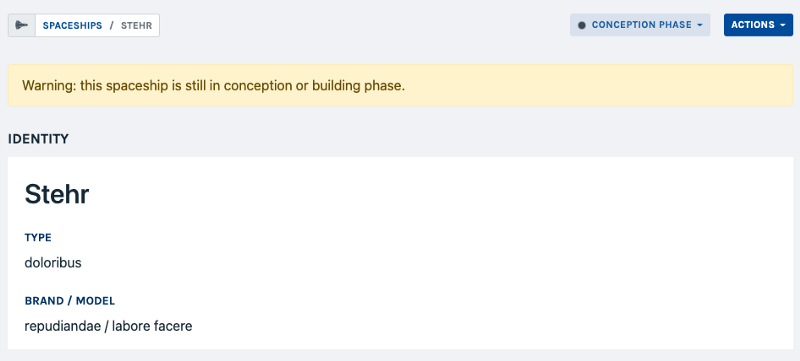
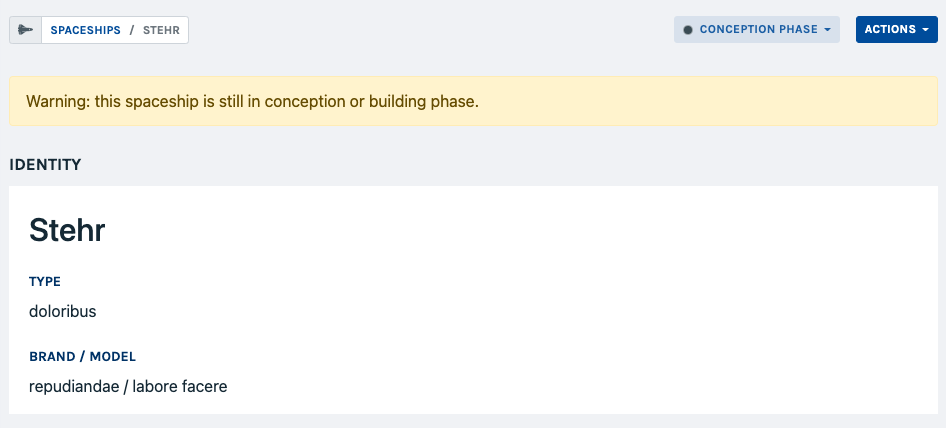
Add nav in blog + post pages, increase some images resolution

diff --git a/source/_assets/sass/main.scss b/source/_assets/sass/main.scss
@@ -14,6 +14,7 @@
 @import "components/carousel";
 @import "components/sticky-title";
 @import "components/section";
+@import "components/nav";
 
 @import "page/project";
 @import "page/home";
@@ -35,6 +36,7 @@ body {
   --body-color: #22292f;
   --logo-bg-color: #22292f;
   --logo-color: #EBEBEB;
+  --nav-link-color: #2C7467;
 }
 
 

diff --git a/source/_assets/sass/_root.scss b/source/_assets/sass/_root.scss
@@ -2,6 +2,7 @@
 :root {
   --image-size: 100%;
   --content-max-width: 100%;
+
   @screen md {
     --image-size: 30rem;
     --content-margin-left: 12rem;

diff --git a/source/_assets/sass/components/_nav.scss b/source/_assets/sass/components/_nav.scss
@@ -1,0 +1,6 @@
+
+.nav {
+  a {
+    color: var(--nav-link-color, #61FFE3);
+  }
+}

diff --git a/source/_layouts/app.blade.php b/source/_layouts/app.blade.php
@@ -10,25 +10,10 @@
         <link rel="stylesheet" href="{{ mix('css/main.css', 'assets/build') }}">
 
         <script src="https://cdn.usefathom.com/script.js" data-site="UYEFQCWU" defer></script>
-
-        {{ $head }}
     </head>
     <body {{ $attributes->class(['home' => $home]) }}>
 
-        @if($home)
-            <div class="container absolute pr-3">
-                <div class="flex justify-end gap-6">
-                    <div>
-                        <a href="/blog" class="underline">blog</a>
-                    </div>
-                    <div>
-                        <a href="/" class="{{ $lang == "fr" ? "text-white" : "underline" }}">fr</a>
-                        <span class="text-white">|</span>
-                        <a href="/en" class="{{ $lang == "en" ? "text-white" : "underline" }}">en</a>
-                    </div>
-                </div>
-            </div>
-        @endif
+        {{ $nav }}
 
         <div class="p-8 sm:p-16">
             <div id="app" class="container">

diff --git a/source/_components/nav.blade.php b/source/_components/nav.blade.php
@@ -1,0 +1,30 @@
+@props([
+    'home' => false,
+    'blog' => false,
+    'lang' => 'fr',
+])
+
+<div class="nav container absolute pr-3">
+    <div class="flex justify-end gap-6">
+        <div>
+            <a href="/blog" @class([$blog ? '!text-white' : 'underline'])>
+                blog
+            </a>
+        </div>
+        <div>
+            @if($home)
+                <a href="/" @class([$lang === "fr" ? '!text-white' : 'underline'])>
+                    fr
+                </a>
+                <span class="text-white">|</span>
+                <a href="/en" @class([$lang === "en" ? '!text-white' : 'underline'])>
+                    en
+                </a>
+            @else
+                <a class="underline" href="/en">
+                    about us
+                </a>
+            @endif
+        </div>
+    </div>
+</div>

diff --git a/source/blog.blade.php b/source/blog.blade.php
@@ -1,7 +1,11 @@
 
 
 
-<x-layout>
+<x-layout lang="en">
+    <x-slot name="nav">
+        <x-nav blog />
+    </x-slot>
+
     <div class="section__content">
         <h1 class="inline-block text-2xl uppercase tracking-widest mb-12">
             Posts

diff --git a/source/en.blade.php b/source/en.blade.php
@@ -1,6 +1,10 @@
 
 
-<x-layout home lang="en">
+<x-layout lang="en">
+
+    <x-slot name="nav">
+        <x-nav home lang="en" />
+    </x-slot>
 
     <h1 class="sr-only">
         Code 16, Laravel development

diff --git a/source/index.blade.php b/source/index.blade.php
@@ -1,5 +1,9 @@
 
-<x-layout home lang="fr">
+<x-layout>
+
+    <x-slot name="nav">
+        <x-nav home />
+    </x-slot>
 
     <h1 class="sr-only">
         Code 16, développement Laravel et Vue.js

diff --git a/source/_layouts/post.blade.php b/source/_layouts/post.blade.php
@@ -1,6 +1,10 @@
 
 
 <x-layout class="light">
+    <x-slot name="nav">
+        <x-nav />
+    </x-slot>
+
     <section class="content">
         <div class="mb-8">
             <h1 class="!mb-0">

diff --git a/source/_components/layout.blade.php b/source/_components/layout.blade.php
@@ -1,8 +1,7 @@
 @props([
-    'home' => false,
     'lang' => null,
     // slots
-    'head' => null,
+    'nav' => null,
 ])
 
 @include('_layouts.app', [

diff --git a/source/_posts/sharp-7-for-laravel-is-released.md b/source/_posts/sharp-7-for-laravel-is-released.md
@@ -10,7 +10,7 @@ author: philippe
 
 This new year starts for us with the release of Sharp 7.0, after ~8 weeks of beta, and many bugs fixed in the process. Almost all new features and stuff were presented in the dedicated post written in November, so I encourage you to read this first:
 
-👉 [/posts/sharp-for-laravel-the-age-of-reason](/posts/sharp-for-laravel-the-age-of-reason)
+👉 [Sharp for Laravel: the age of Reason](/posts/sharp-for-laravel-the-age-of-reason)
 
 > To find out more about Sharp 7, [start here](https://sharp.code16.fr/docs/); you’ll find the documentation (note that Sharp 6 documentation is still available), and an online demo; and you can [join us on Discord](https://discord.com/invite/sFBT5c3XZz) to find help or to start a discussion.
 
